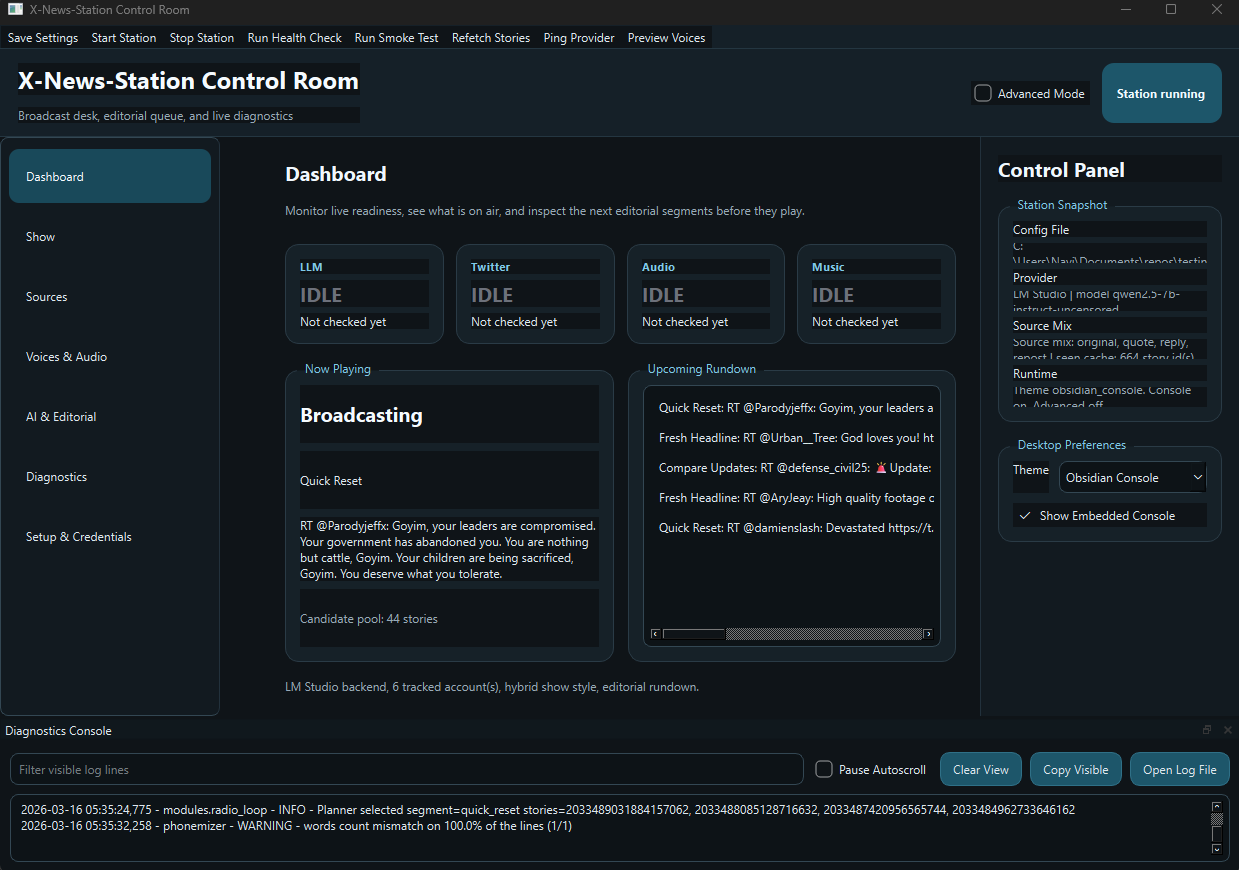
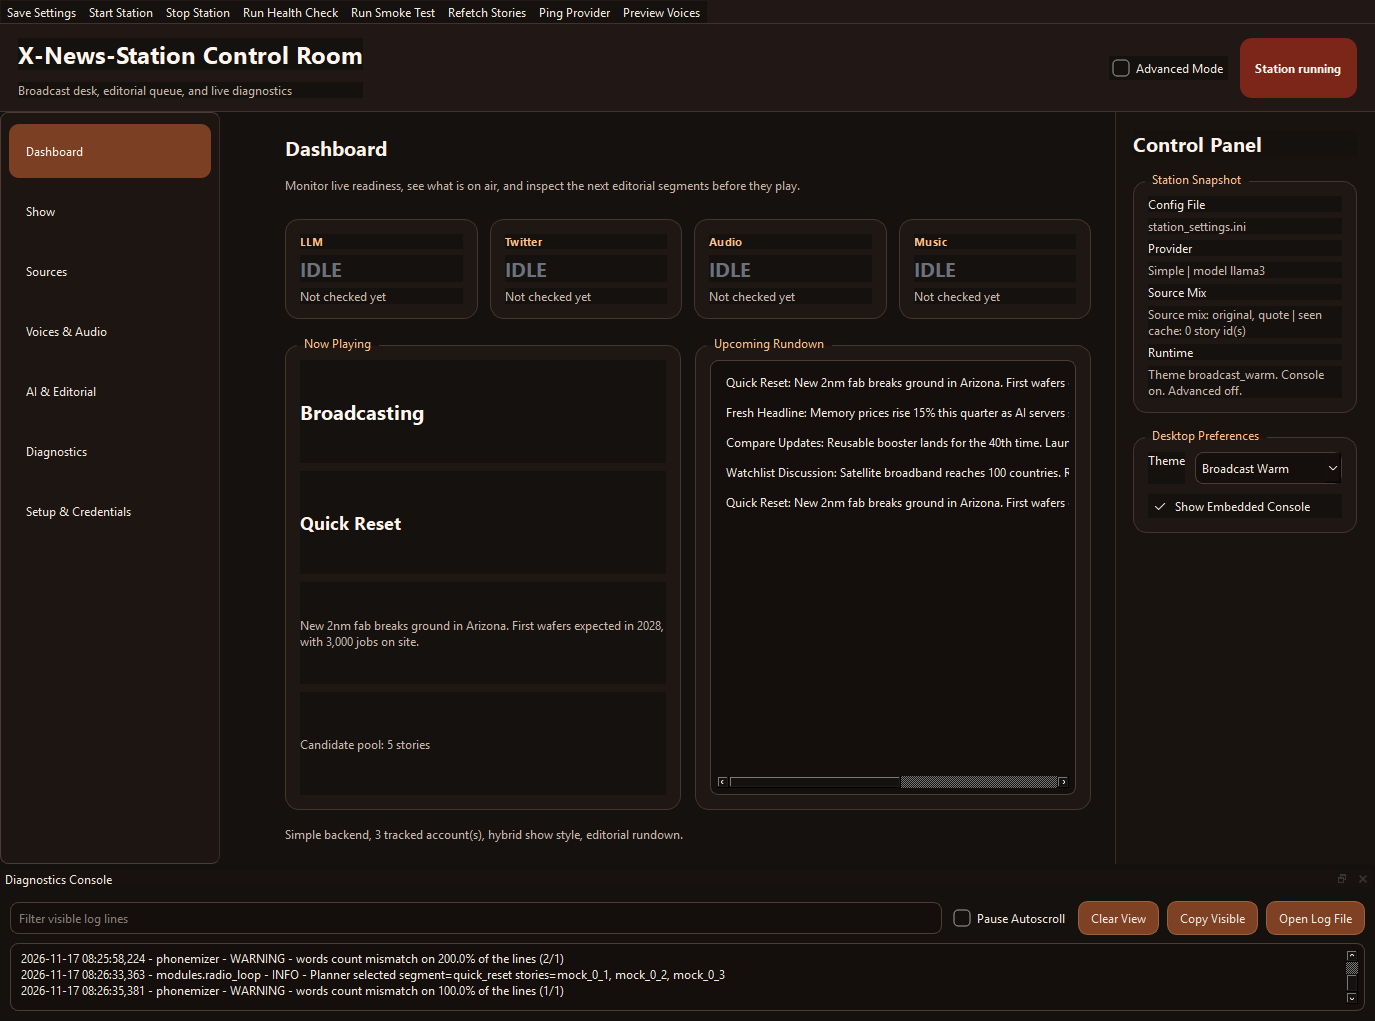
Fix mock feed timezone bug; refresh README demo
Mock tweets were stamped with naive local time, which the planner reads
as UTC. Outside UTC every mock story looked hours old and was pruned, so
mock mode never aired a segment. Use timezone-aware UTC timestamps (also
for the real-feed fallback) and add a regression test.

README: add a demo GIF recorded in mock mode with made-up accounts,
replace the old screenshots (they showed live feed content), and drop
the CI badge that pointed at a placeholder repo.

diff --git a/x_news_station/modules/news_fetcher.py b/x_news_station/modules/news_fetcher.py
@@ -8,7 +8,7 @@ import logging
 import threading
 from abc import ABC, abstractmethod
 from dataclasses import dataclass
-from datetime import datetime
+from datetime import datetime, timezone
 from pathlib import Path
 from typing import Any
 from urllib.parse import urlparse
@@ -138,7 +138,7 @@ class MockTwitterMonitor(BaseTweetMonitor):
         call_index = self._call_count
         self._call_count += 1
 
-        now = datetime.now()
+        now = datetime.now(timezone.utc)
         result: list[TweetData] = []
         for i in range(batch_size):
             username, text = _MOCK_TWEET_POOL[(batch_start + i) % pool_size]
@@ -276,9 +276,9 @@ class TwitterMonitor(BaseTweetMonitor):
 
     @classmethod
     def _normalize_tweet(cls, tweet: Any, username: str) -> TweetData:
-        timestamp = getattr(tweet, "date", datetime.now())
+        timestamp = getattr(tweet, "date", datetime.now(timezone.utc))
         if not isinstance(timestamp, datetime):
-            timestamp = datetime.now()
+            timestamp = datetime.now(timezone.utc)
 
         links = cls._normalize_links(getattr(tweet, "links", []))
         quoted_text, quoted_username, quoted_url = cls._extract_quote_context(tweet)

diff --git a/x_news_station/tests/test_fetcher.py b/x_news_station/tests/test_fetcher.py
@@ -57,6 +57,17 @@ class TestMockTwitterMonitor:
             assert len(tweet.username) > 0
             assert len(tweet.text) > 0
 
+    def test_timestamps_are_utc_aware_and_survive_planner_prune(self) -> None:
+        """Mock stories must not look hours old outside UTC (naive local time was read as UTC)."""
+        from modules.editorial_planner import EditorialRundownPlanner
+
+        tweets = MockTwitterMonitor().fetch_latest(["test"])
+        assert all(t.timestamp.tzinfo is not None for t in tweets)
+
+        planner = EditorialRundownPlanner(candidate_lookback_minutes=60)
+        planner.ingest_tweets(tweets)
+        assert len(planner._candidates) == len(tweets)
+
     def test_returns_tweets_on_every_call(self) -> None:
         """Test that MockTwitterMonitor keeps returning tweets on every call (cycling pool)."""
         monitor = MockTwitterMonitor()

diff --git a/README.md b/README.md
@@ -3,9 +3,10 @@
 [![Python](https://img.shields.io/badge/Python-3.10%2B-blue?logo=python&logoColor=white)](https://www.python.org/)
 [![License: MIT](https://img.shields.io/badge/License-MIT-yellow.svg)](LICENSE)
 [![Platform](https://img.shields.io/badge/Platform-Windows%20%7C%20Linux-lightgrey)](#)
-[![CI](https://github.com/YOUR_USERNAME/YOUR_REPO/actions/workflows/desktop-smoke.yml/badge.svg)](https://github.com/YOUR_USERNAME/YOUR_REPO/actions/workflows/desktop-smoke.yml)
 
 **A fully-local, AI-powered radio station that monitors Twitter/X accounts and broadcasts them as a live news show — complete with anchor voice, analyst banter, background music, and automatic recaps. No cloud required.**
+
+![X-News-Station control room running a mock broadcast](screenshots/demo.gif)
 
 > **Origin:** I got tired of endlessly scrolling my Twitter/X feed just to catch up on what people I follow were saying. So I built a radio station that does it for me — I can have it playing in the background while I work and just listen. This was developed as a quick side project using AI assistance (Claude) for the bulk of the code.
 
@@ -72,7 +73,7 @@ All processing happens locally — no API keys needed for the core experience.
 
 ```bash
 # 1. Clone
-git clone https://github.com/YOUR_USERNAME/YOUR_REPO.git
+git clone https://github.com/huss2342/x_news_station.git
 cd YOUR_REPO/x_news_station
 
 # 2. Install
@@ -134,8 +135,9 @@ The `radio_loop` state machine orchestrates everything: it polls for new tweets,
 
 > The desktop GUI provides a settings dashboard, live broadcast rundown, console log, and voice preview — all in a single window.
 
-[![Screenshot of X-News-Station GUI1](screenshots/1.png)](screenshots/1.png)
-[![Screenshot of X-News-Station GUI2](screenshots/2.png)](screenshots/2.png)
+[![X-News-Station dashboard during a broadcast](screenshots/1.png)](screenshots/1.png)
+
+<sub>Screenshots use mock mode with made-up demo accounts.</sub>
 
 
 ## Configuration
